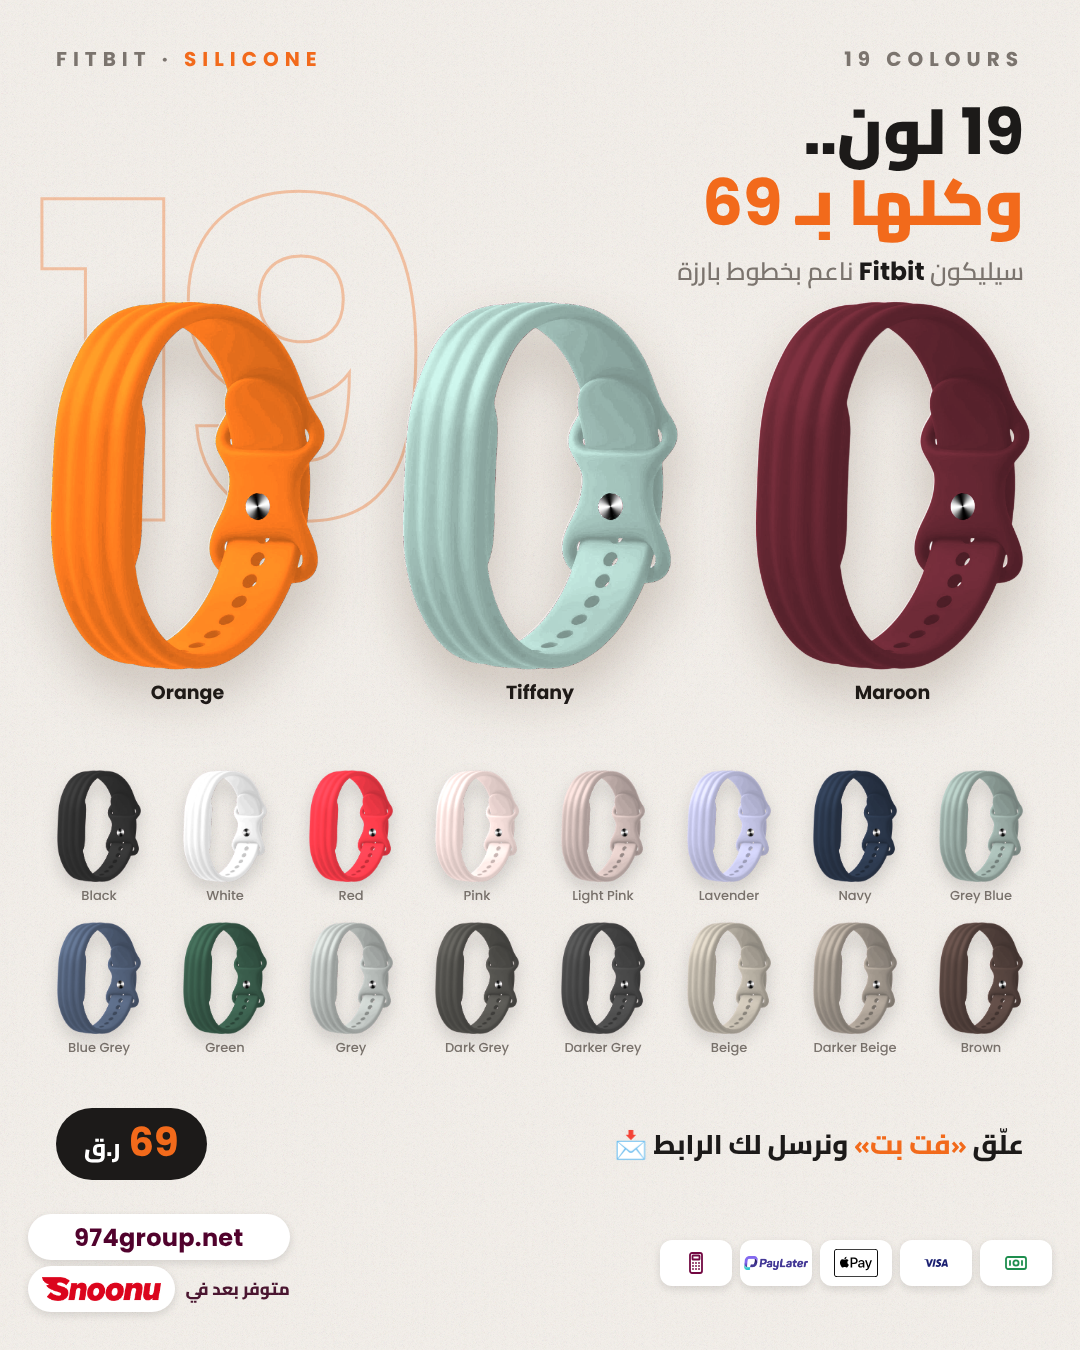
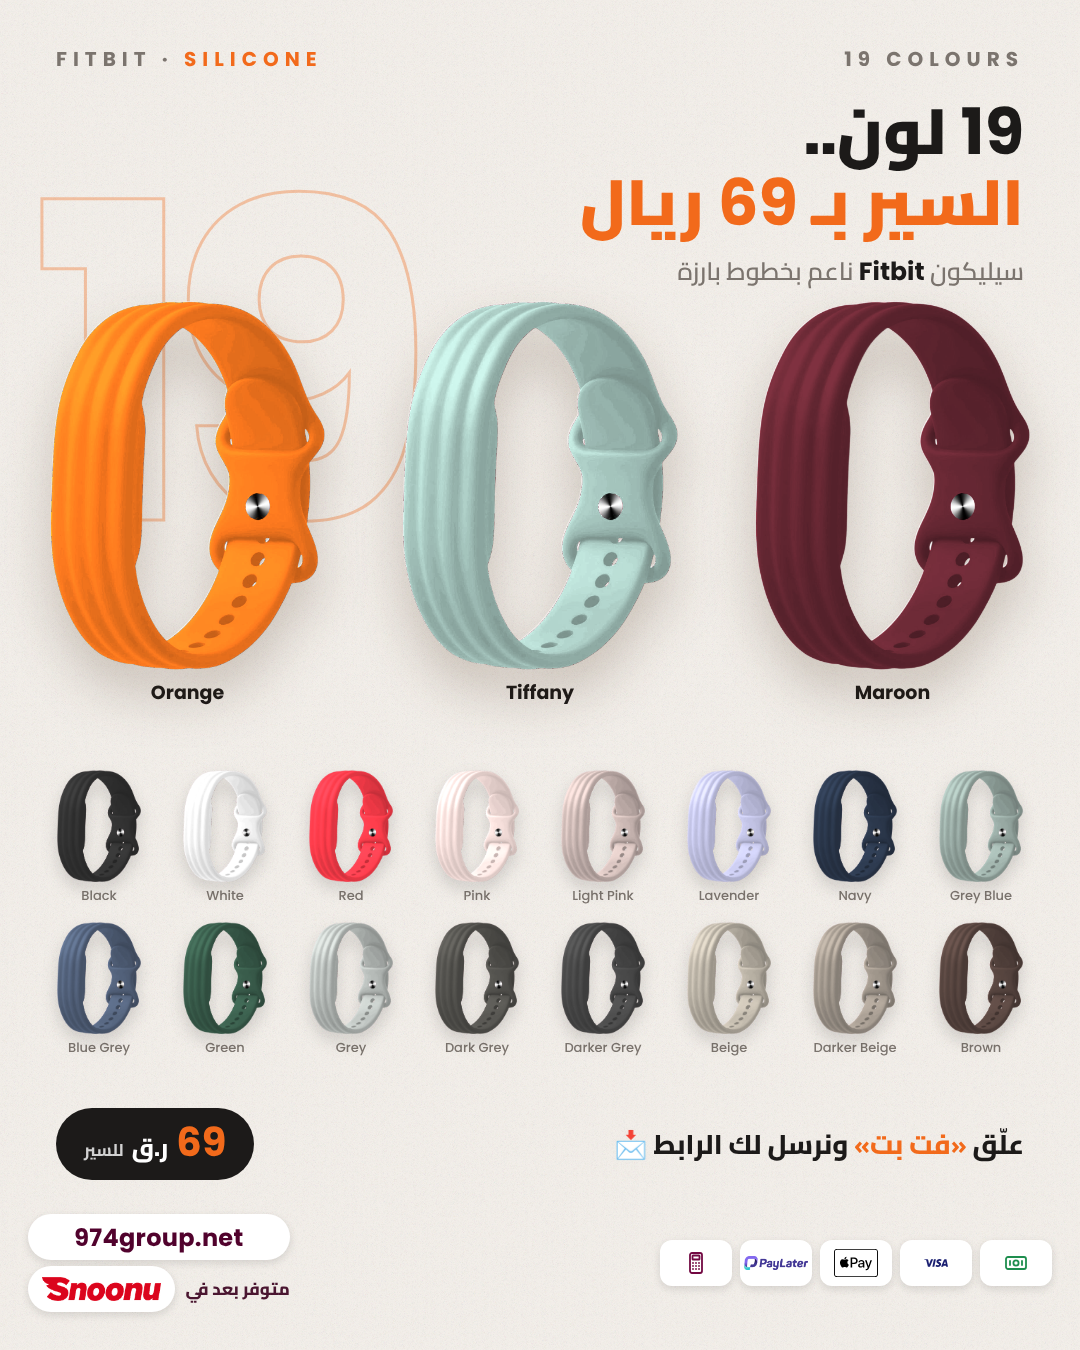
Fitbit silicone: unified recolour photos on store + per-band price wording
Claude-Session: https://claude.ai/code/session_01K6HDWNrArsGSJekW1VcEzV

Changed region(s): [[0.5194, 0.1244, 0.9472, 0.1867], [0.0611, 0.8089, 0.2444, 0.8711]]

diff --git a/posts/2026-11/fitbit-silicone-v1/gen.py b/posts/2026-11/fitbit-silicone-v1/gen.py
@@ -41,6 +41,8 @@ body{{width:{W}px;height:{H}px;position:relative;overflow:hidden;font-family:Cai
 .foot{{position:absolute;left:56px;right:56px;bottom:{cta_b}px;display:flex;align-items:center;justify-content:space-between;direction:rtl}}
 .cta{{font-weight:800;font-size:{32 if story else 27}px}} .cta em{{font-style:normal;color:{ACC}}}
 .price{{background:{INK};color:#fff;border-radius:999px;padding:4px 28px 8px;font-weight:800;font-size:{28 if story else 24}px;display:flex;align-items:baseline;gap:8px}}
+
+.price small{{font-size:{20 if story else 17}px;font-weight:700;opacity:.8}}
 .price b{{font-family:Poppins;font-weight:700;font-size:{48 if story else 40}px;color:{ACC}}}
 {payfoot.css(1.0 if not story else 1.12)}
 .pf{{position:absolute;left:28px;right:28px;bottom:{pf}px}}
@@ -48,10 +50,10 @@ body{{width:{W}px;height:{H}px;position:relative;overflow:hidden;font-family:Cai
 <svg class="grain" width="100%" height="100%"><filter id="g"><feTurbulence baseFrequency="0.9" numOctaves="2"/></filter><rect width="100%" height="100%" filter="url(#g)"/></svg>
 <div class="big">19</div>
 <div class="tag"><span>FITBIT · <b>SILICONE</b></span><span>19 COLOURS</span></div>
-<div class="hd"><h1><bdi>19</bdi> لون..<br><em>وكلها بـ <bdi>69</bdi></em></h1><p>سيليكون <bdi dir="ltr">Fitbit</bdi> ناعم بخطوط بارزة</p></div>
+<div class="hd"><h1><bdi>19</bdi> لون..<br><em>السير بـ <bdi>69</bdi> ريال</em></h1><p>سيليكون <bdi dir="ltr">Fitbit</bdi> ناعم بخطوط بارزة</p></div>
 <div class="trio">{trio}</div>
 <div class="rows">{rows}</div>
-<div class="foot"><div class="cta">علّق <em>«فت بت»</em> ونرسل لك الرابط 📩</div><div class="price"><b>69</b>ر.ق</div></div>
+<div class="foot"><div class="cta">علّق <em>«فت بت»</em> ونرسل لك الرابط 📩</div><div class="price"><b>69</b>ر.ق <small>للسير</small></div></div>
 <div class="pf">{payfoot.html()}</div>
 </body></html>'''
 for s in (0,1): open(f'p_{s}.html','w').write(page(bool(s)))
